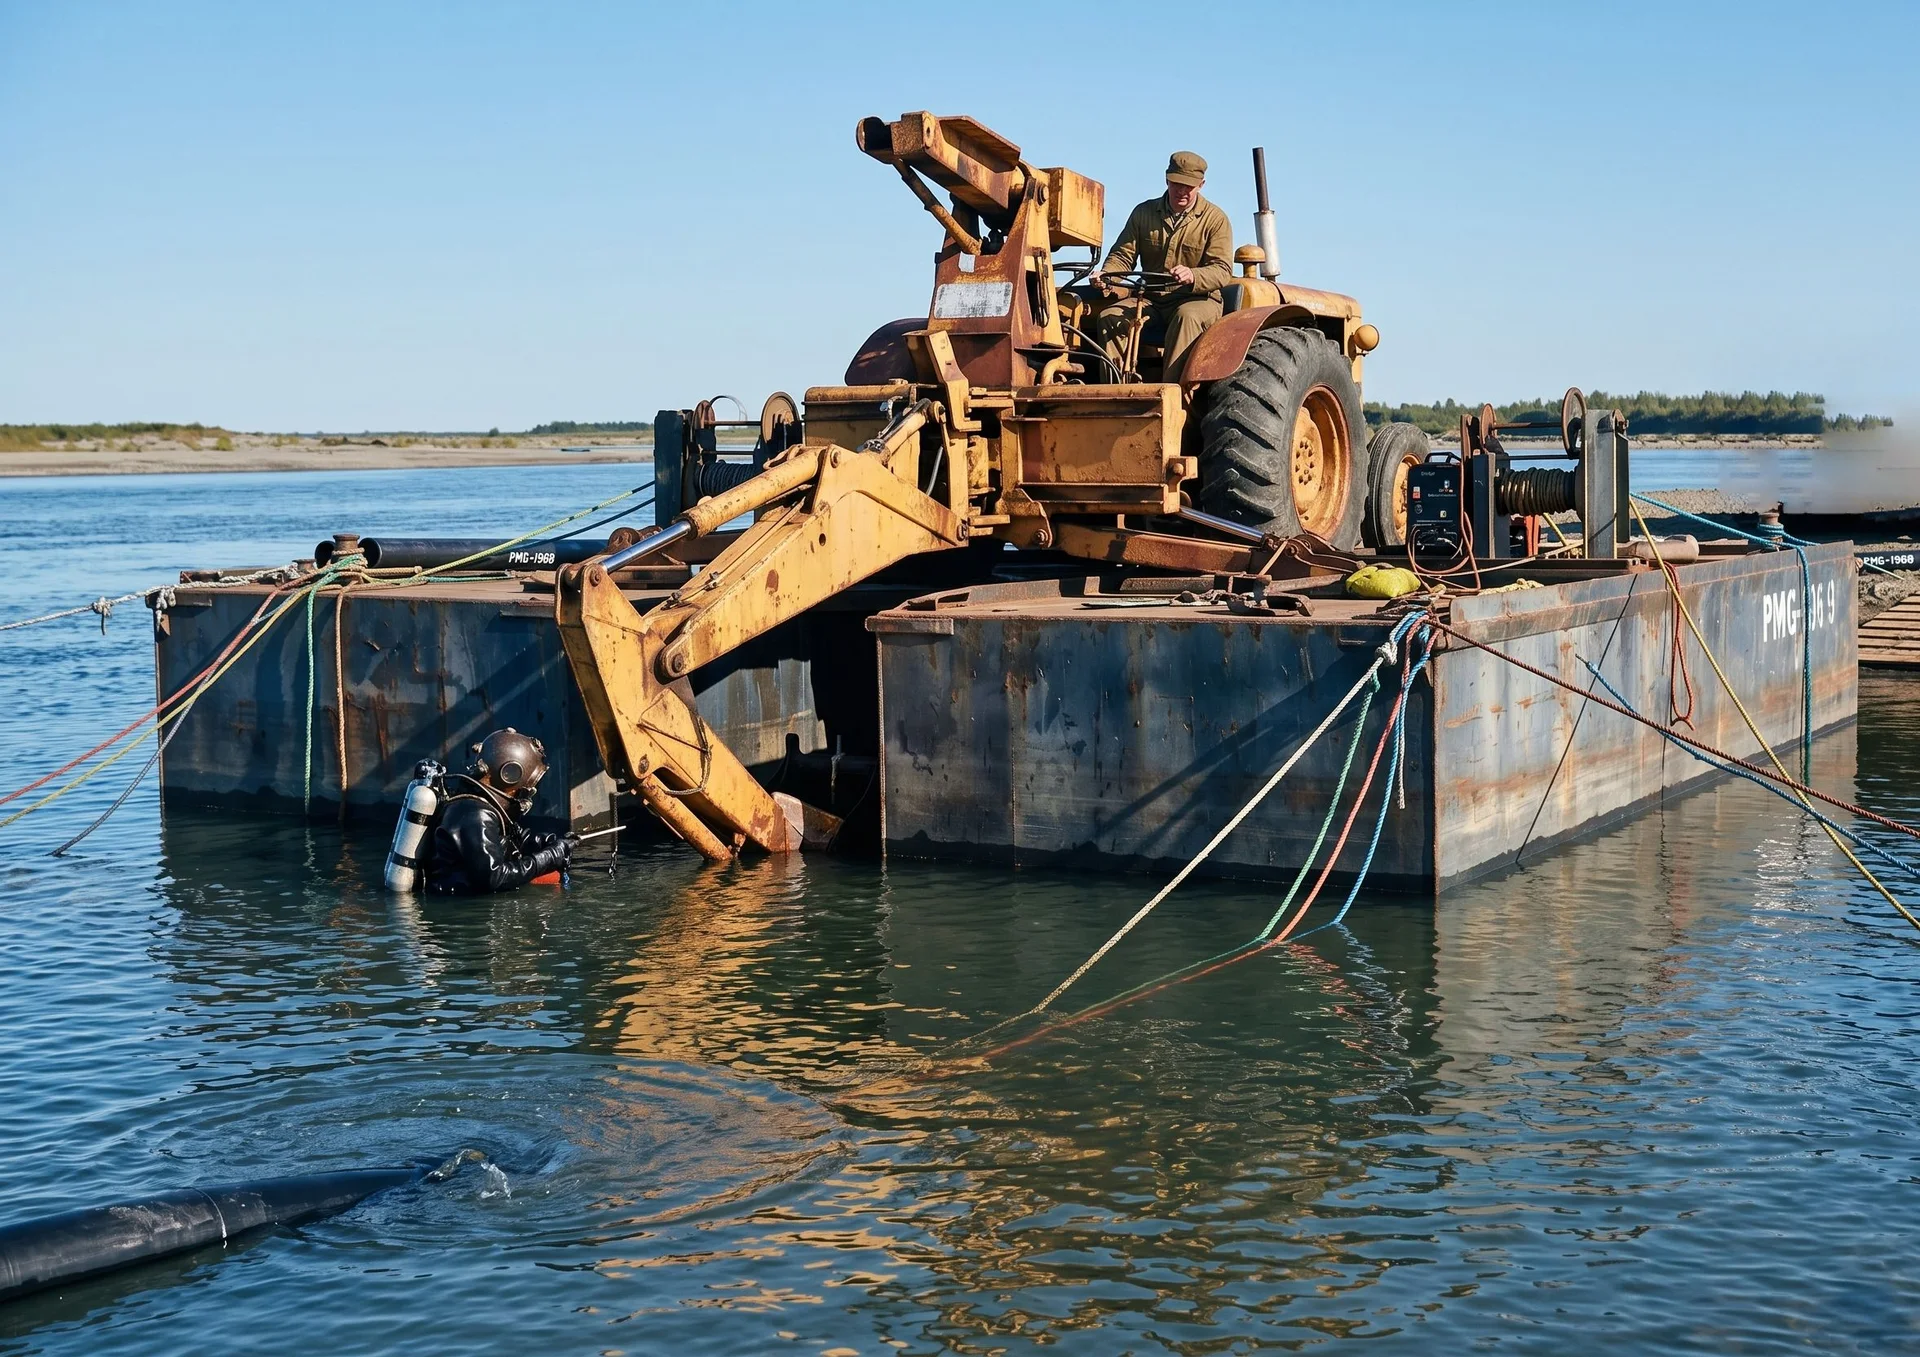
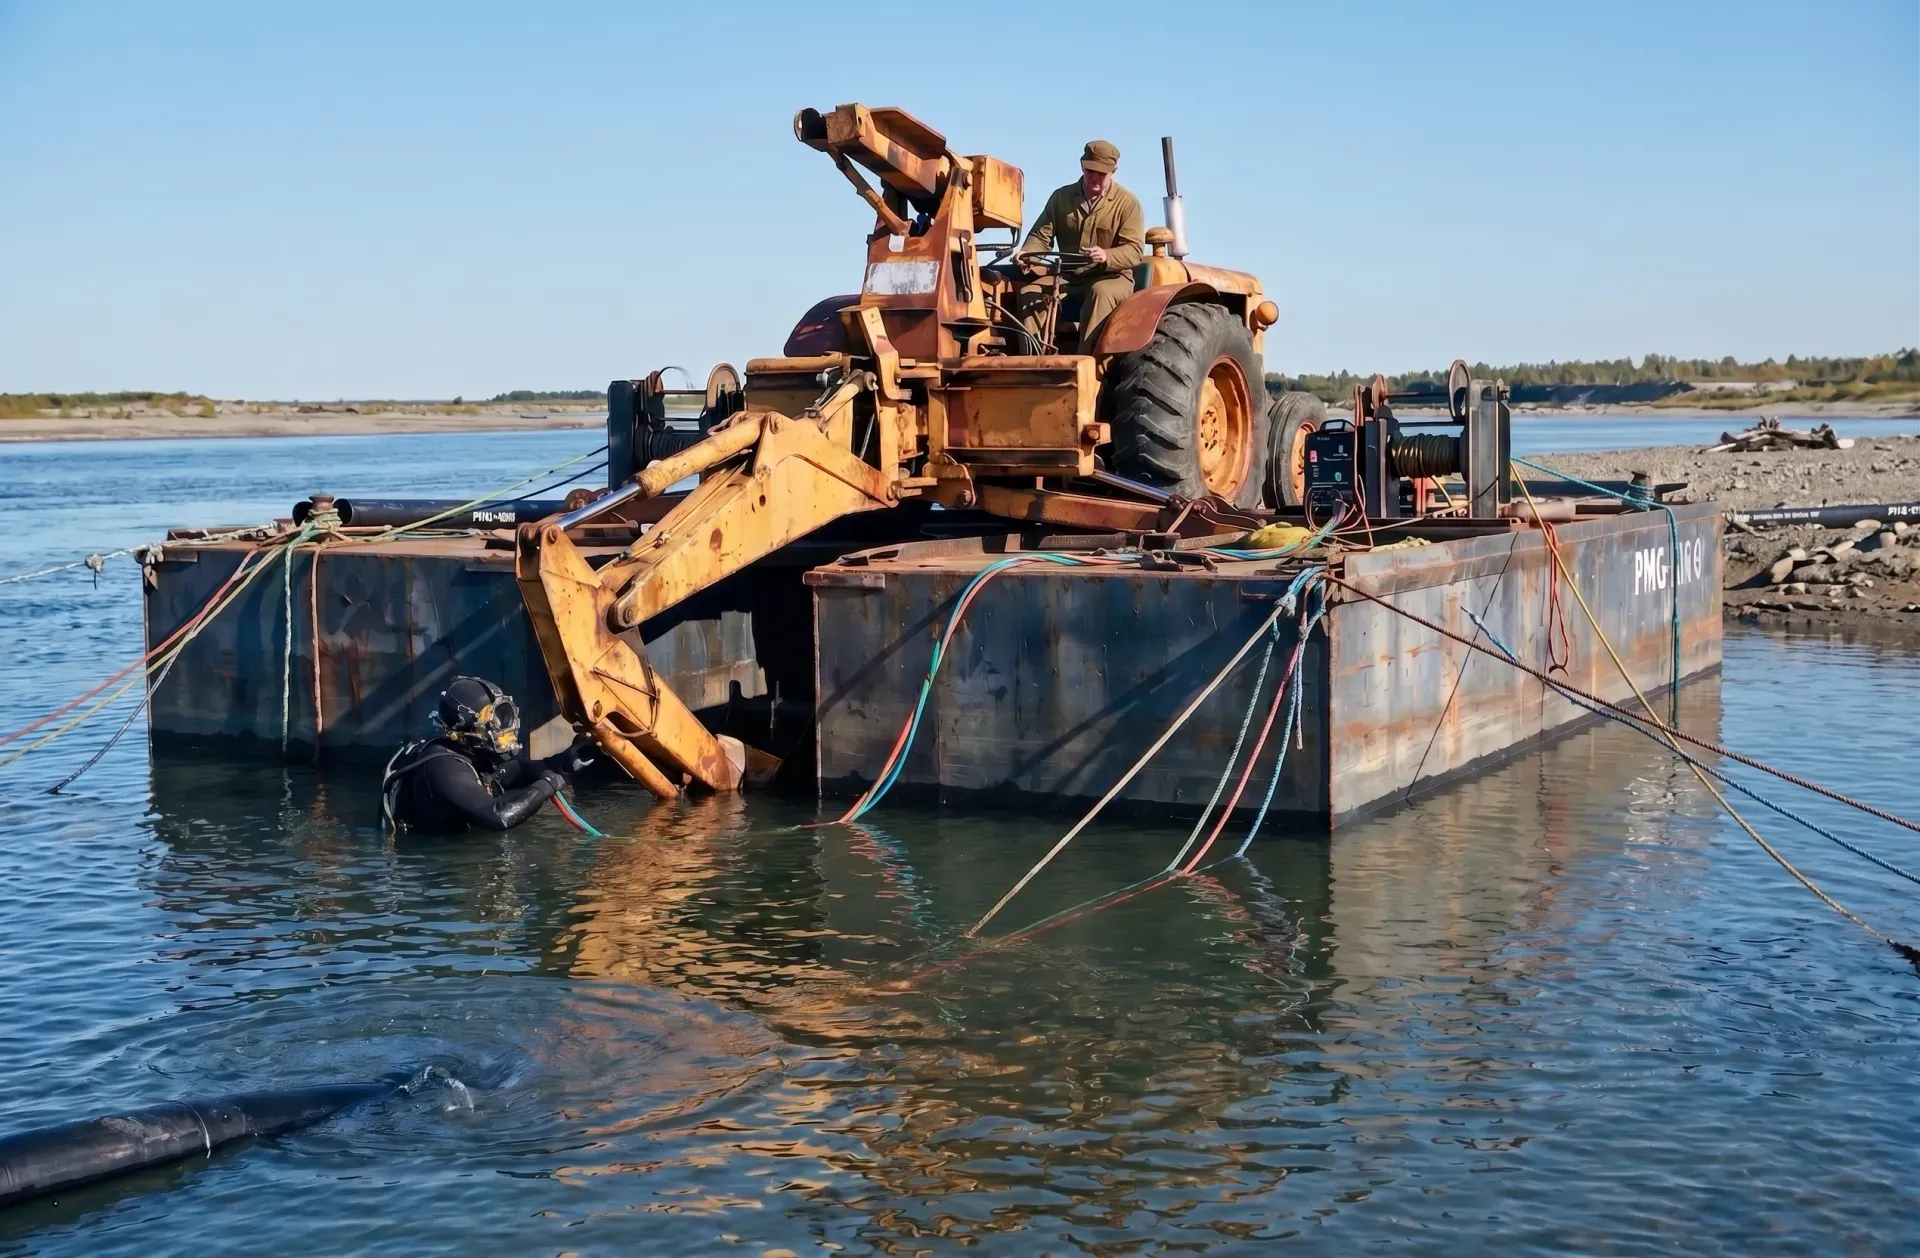
Frank's diver is on a hose now, and the caveat that said otherwise is gone (v1.54)
The reconstruction beside Frank's story showed him in a brass hard hat
with a cylinder on his back. He never used one: he worked on a hookah,
with air pumped down a hose from the surface, and the story says so twice.
The picture contradicted the words, and the note underneath had to
apologise for it.

The new render fixes the diver: a mask with air hoses running back up to
the boat. The note loses its last clause, because there is no longer
anything to warn about, and the alt text gains the hoses.

The credit does not change. This is a corrected reconstruction, not a
photograph: it is in colour where the 1968 Geelong Advertiser original was
black and white, it matches the previous render frame for frame - the same
pontoon, backhoe, operator, shoreline and light - and only the diver has
moved. Checked with Colin before publishing, because relabelling a render
as a press photograph is the kind of claim this site cannot make loosely.

diff --git a/README.md b/README.md
@@ -2,11 +2,11 @@
 
 Community information platform, weekly news edition, historical archive, and local guide for [lovemallacoota.au](https://lovemallacoota.au/).
 
-[![Site Version](https://img.shields.io/badge/version-v1.53-0284c7.svg)](data/site-version.json)
+[![Site Version](https://img.shields.io/badge/version-v1.54-0284c7.svg)](data/site-version.json)
 [![Build & Test](https://img.shields.io/badge/tests-140%20passing-22c55e.svg)](tests/)
 
 <!-- version -->
-**v1.53** - built 4 September 2026.
+**v1.54** - built 5 September 2026.
 <!-- /version -->
 
 Both the line above and the version badge are written by
